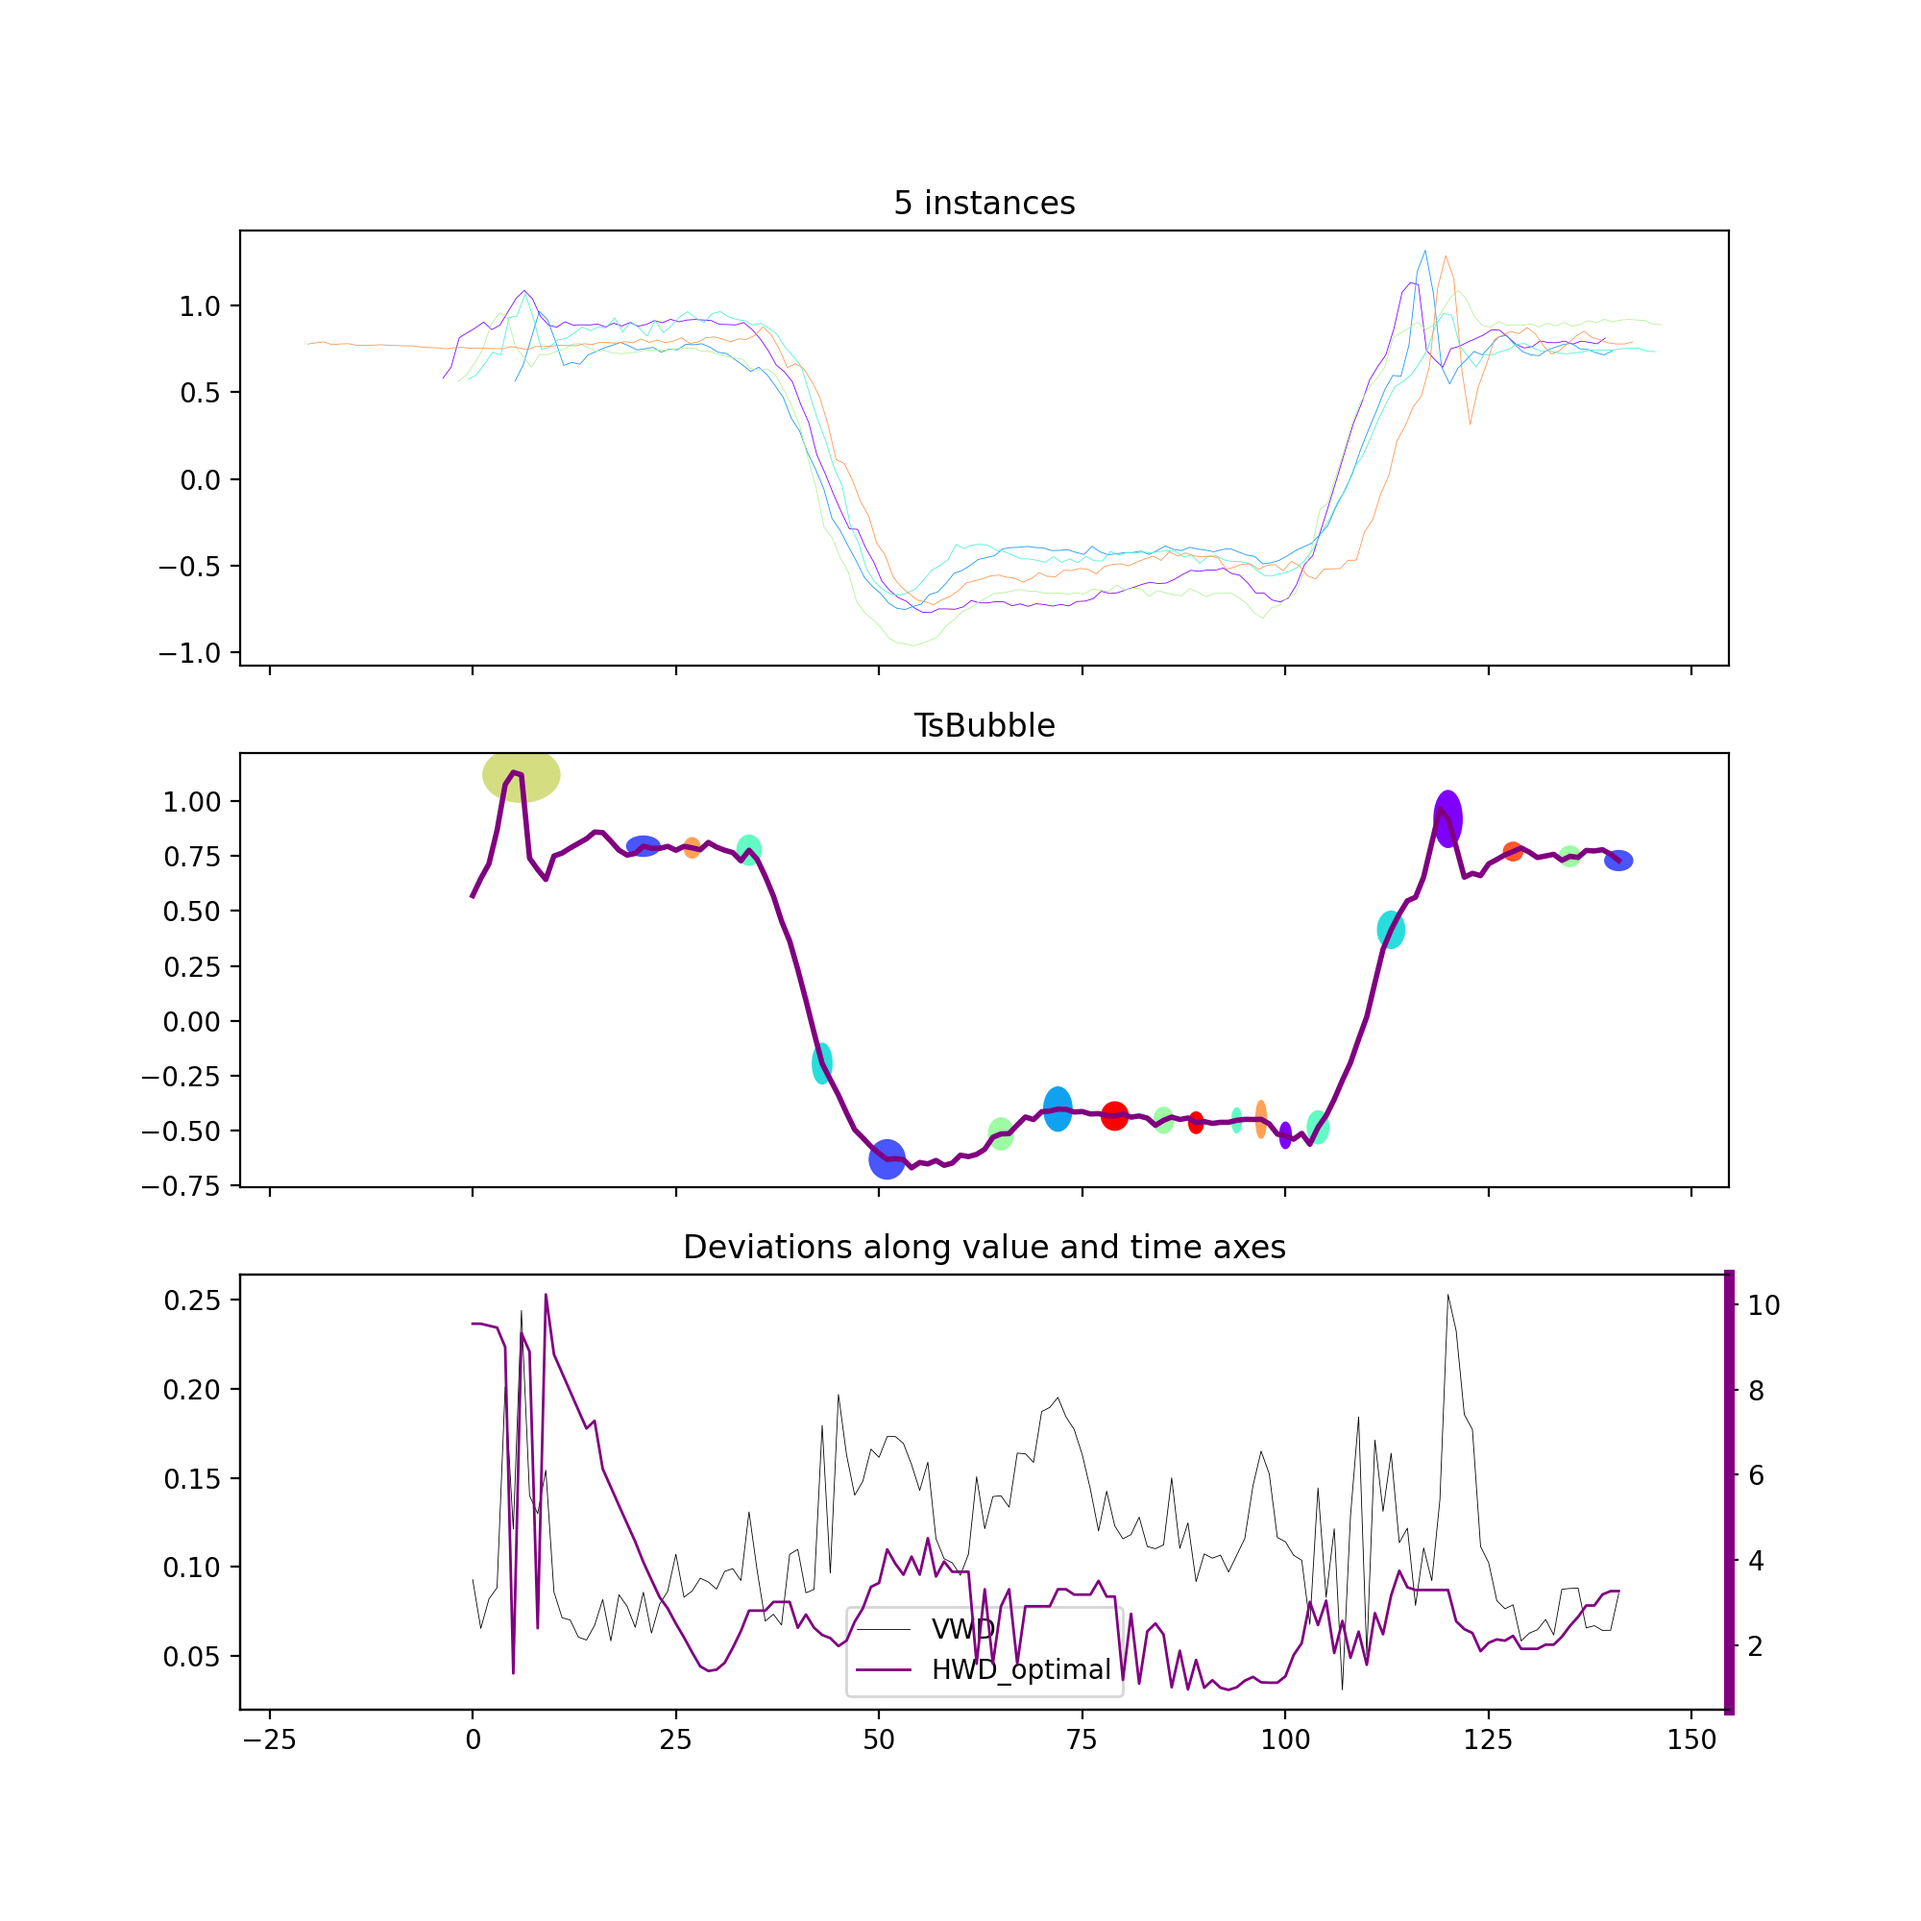
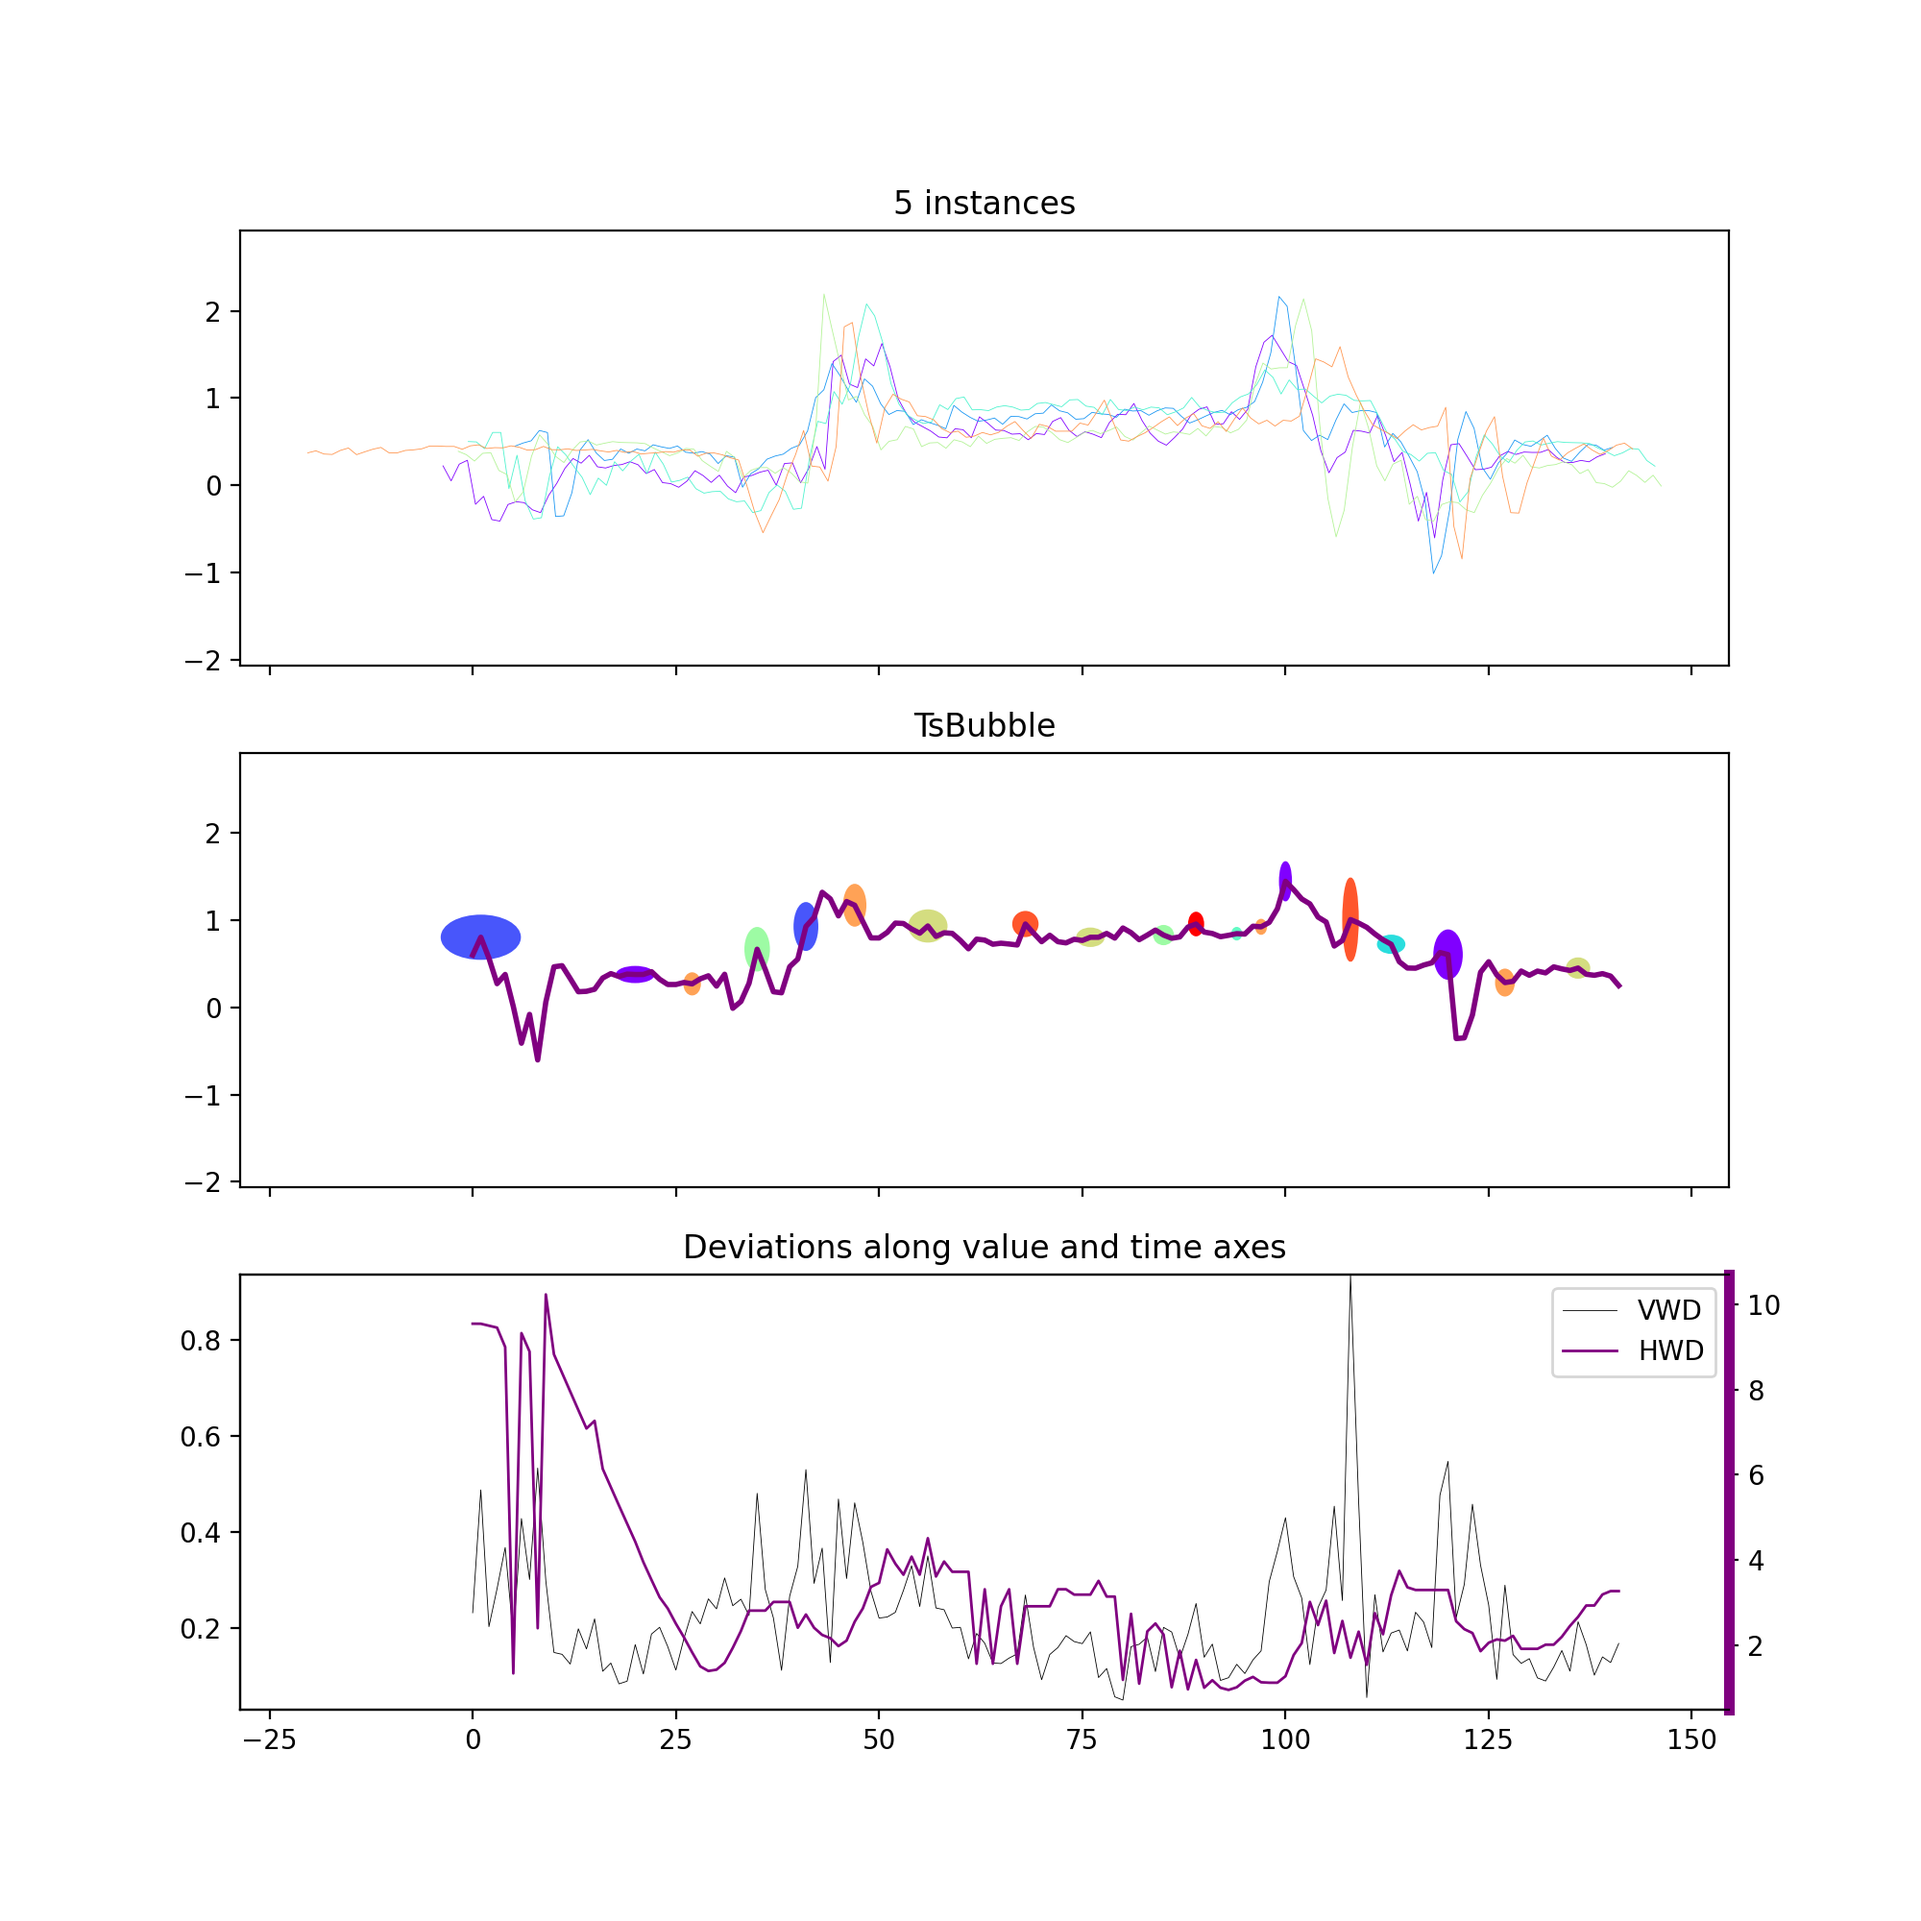
1. add results. 2. only plots the overlaying and the bubble plot.

diff --git a/tsbubble/ts_bubble.py b/tsbubble/ts_bubble.py
@@ -117,7 +117,7 @@ class TsBubble():
                 # x = np.arange(0, len(motif_set_value[new_idx]))
                 # plt.plot(x, motif_set_value[new_idx], color = 'purple', linewidth = 2)
             else:
-                plt.plot(np.arange(shifts_optimal[new_idx], len(motif_set_value[new_idx]) + shifts_optimal[new_idx]), motif_set_value[new_idx], color=next(colors) ,linewidth = 0.3)
+                plt.plot(shifts_optimal[new_idx] + np.arange(0, len(motif_set_value[new_idx])),  motif_set_value[new_idx], color=next(colors) ,linewidth = 0.3)
     def get_elipse_index_list(self,  hwd, vwd, order): #horizontal wraping deviation, vertical wraping deviation
         n = len(hwd)
         area = list(map(lambda i: hwd[i] * vwd[i],  range(n)))
@@ -169,9 +169,23 @@ class TsBubble():
             for t in textlist:
                 plt.add_artist(t)
 
+    def plot_eclipse_around_dba_of_different_dimensions(self, plt, series_mean, dtw_horizontal_deviation, dtw_vertical_deviation, order):  #plotting elipses without overlapping among them.
+        detected_dim = len(series_mean)
+        color_arr = cm.brg(np.linspace(0, 1, detected_dim))
+        for dim in np.arange(detected_dim):
+            plt.plot(series_mean[dim], color=color_arr[dim], zorder = 0)
+        for dim in np.arange(detected_dim):
+            elipse_index_list = self.get_elipse_index_list(hwd=dtw_horizontal_deviation, vwd=dtw_vertical_deviation[dim], order=order)
+            ells = [Ellipse(xy=(i, series_mean[dim][i]),
+                        width=dtw_horizontal_deviation[i], height=dtw_vertical_deviation[dim][i], color=color_arr[dim], alpha = 0.3, zorder=1)
+                for i in elipse_index_list
+                ]
+            for e in ells:
+                plt.add_artist(e)
+
 
     def plot_bubble_of_one_dimension(self, motif_set_value, length_of_candidate,
-                                     assoc_tab_new_paths, assoc_timeaxis_tab_new_paths, motif_set_length, shifts_optimal):
+                                     assoc_tab_new_paths, assoc_timeaxis_tab_new_paths, motif_set_length, shifts_optimal, lim_for_time_series=None, lim_for_vertical_deviation=None):
         # explain = ExplainKmeans(series=motif_set_value, span=(0, length_of_candidate - 1), max_iter=None, k=1,
         #                         dist_matrix=None, V=None, cluster_and_idx=None, align_info_provided=True)
         dtw_vertical_deviation, percent_v = self.get_vertical_deviation_and_percent(motif_set_value[0],
@@ -179,42 +193,100 @@ class TsBubble():
         dtw_h_to_optimal_d, percent_h_o = \
             self.get_dtw_horizontal_deviation_with_shifts(motif_set_value[0], assoc_timeaxis_tab_new_paths, shifts_optimal)
 
-        variance_of_optimal_shifts = np.sum(np.square(dtw_h_to_optimal_d))
+        # variance_of_optimal_shifts = np.sum(np.square(dtw_h_to_optimal_d))
 
-        dtw_h_no_shifts, percent_h_o = \
-            self.get_dtw_horizontal_deviation_with_shifts(motif_set_value[0], assoc_timeaxis_tab_new_paths,
-                                                          [np.float64(0)] * len(shifts_optimal))
-        variance_of_no_shifts = np.sum(np.square(dtw_h_no_shifts))
+        # dtw_h_no_shifts, percent_h_o = \
+        #     self.get_dtw_horizontal_deviation_with_shifts(motif_set_value[0], assoc_timeaxis_tab_new_paths,
+        #                                                   [np.float64(0)] * len(shifts_optimal))
+        # variance_of_no_shifts = np.sum(np.square(dtw_h_no_shifts))
         # print("the variance of optimal shifts: " + str(variance_of_optimal_shifts))
 
         # print("the variance without shifts: " + str(variance_of_no_shifts))
 
         # assert variance_of_optimal_shifts < variance_of_no_shifts
 
-        fig, axs = plt.subplots(3, 1, dpi=200, sharex=True, figsize=(10, 10))
+        fig, axs = plt.subplots(2, 1, dpi=200, sharex=True, figsize=(10, 10))
         ax1 = axs[0]
         ax2 = axs[1]
-        ax3 = axs[2]
+        # ax3 = axs[2]
 
-        ax1.set_title(str(motif_set_length - 1) + " instances")
-        ax2.set_title("TsBubble")
-        ax3.set_title("Deviations along value and time axes")
+        ax1.set_title(str(motif_set_length - 1) + " instances", fontsize = 12)
+        # ax1.set_title(str("20 instances"))
+        ax2.set_title("TsBubble",fontsize = 12)
+        # ax3.set_title("Deviations along value and time axes")
         self.plotAllSeries_with_optimal_shifts(ax1, motif_set_value, motif_set_length, shifts_optimal)
 
         self.plot_eclipse_and_percent_around_dba(ax2, motif_set_value[0], dtw_h_to_optimal_d, dtw_vertical_deviation,
                                                     percent_v, percent_h_o, False)
 
-        ln1 = ax3.plot(np.arange(0, length_of_candidate), dtw_vertical_deviation, color='black', label='VWD', linewidth=0.3)
-        ax3_twin = ax3.twinx()
-        ax3_twin.spines['right'].set_color('purple')
-        ax3_twin.spines['right'].set_linewidth(4)
-        ln2 = ax3_twin.plot(np.arange(0, length_of_candidate), dtw_h_to_optimal_d, color='purple', label='HWD_optimal', linewidth=1)
-        # todo to remove
+        # ln1 = ax3.plot(np.arange(0, length_of_candidate), dtw_vertical_deviation, color='black', label='VWD', linewidth=0.3)
+        # ax3_twin = ax3.twinx()
+        # ax3_twin.spines['right'].set_color('purple')
+        # ax3_twin.spines['right'].set_linewidth(4)
+        # ln2 = ax3_twin.plot(np.arange(0, length_of_candidate), dtw_h_to_optimal_d, color='purple', label='HWD', linewidth=1)
+        # # todo to remove
         # for iii in np.arange(80, 100):
         #     print(str(iii) + ":" + str(dtw_h_to_optimal_d[iii]))
-        lns = ln1 + ln2
-        labs = [l.get_label() for l in lns]
-        ax3.legend(lns, labs, loc=0)
+        # lns = ln1 + ln2
+        # labs = [l.get_label() for l in lns]
+        # ax3.legend(lns, labs, loc=0)
+
+        if lim_for_time_series is not None:
+            ax1.set_ylim(lim_for_time_series[0], lim_for_time_series[1])
+            ax2.set_ylim(lim_for_time_series[0], lim_for_time_series[1])
+        # if lim_for_vertical_deviation is not None:
+        #     ax3.set_ylim(lim_for_vertical_deviation[0], lim_for_vertical_deviation[1])
+        plt.show()
+
+    def  plot_bubble_of_multi_dimension(self, motif_set_value_in_all_dimensions, length_of_candidate,
+                                     assoc_tab_new_paths_in_all_dimensions, assoc_timeaxis_tab_new_paths, motif_set_length, shifts_optimal, lim_for_time_series=None, lim_for_vertical_deviation=None):
+        detect_dim = len(motif_set_value_in_all_dimensions)
+        vertical_deviation_list = []
+        average_list = []
+        for dim in np.arange(detect_dim):
+            average_list.append(motif_set_value_in_all_dimensions[dim][0])
+            dtw_vertical_deviation, _ = self.get_vertical_deviation_and_percent(motif_set_value_in_all_dimensions[dim][0],
+                                                                                       assoc_tab_new_paths_in_all_dimensions[dim])
+            vertical_deviation_list.append(dtw_vertical_deviation)
+        dtw_h_to_optimal_d, _ = \
+            self.get_dtw_horizontal_deviation_with_shifts(motif_set_value_in_all_dimensions[0][0], assoc_timeaxis_tab_new_paths, shifts_optimal)
+
+        fig, axs = plt.subplots(2, 1, dpi=200, sharex=True, figsize=(10, 10))
+        ax1 = axs[0]
+        ax2 = axs[1]
+        # ax3 = axs[2]
+
+        ax1.set_title(str(motif_set_length - 1) + " instances")
+        ax2.set_title("TsBubble")
+        # ax3.set_title("Deviations along value and time axes")
+
+        color_arr = cm.brg(np.linspace(0, 1, detect_dim))
+
+        for id in np.arange(1, motif_set_length):
+            for dim in np.arange(detect_dim):
+                ax1.plot(shifts_optimal[id] + np.arange(0, len(motif_set_value_in_all_dimensions[dim][id])),
+                         motif_set_value_in_all_dimensions[dim][id], color=color_arr[dim], linewidth=0.3)
+
+        self.plot_eclipse_around_dba_of_different_dimensions(ax2, average_list, dtw_h_to_optimal_d, vertical_deviation_list,False)
+
+        # lns = []
+        # for dim in np.arange(detect_dim):
+        #     current_lns = ax3.plot(np.arange(0, length_of_candidate), dtw_vertical_deviation, color= color_arr[dim], label='VWD_dim_' + str(dim), linewidth=0.5)
+        #     lns += current_lns
+        # ax3_twin = ax3.twinx()
+        # ax3_twin.spines['right'].set_color('black')
+        # ax3_twin.spines['right'].set_linewidth(4)
+        # ln2 = ax3_twin.plot(np.arange(0, length_of_candidate), dtw_h_to_optimal_d, color='black', label='HWD', linewidth=1)
+
+        # lns += ln2
+        # labs = [l.get_label() for l in lns]
+        # ax3.legend(lns, labs, loc=0)
+
+        if lim_for_time_series is not None:
+            ax1.set_ylim(lim_for_time_series[0], lim_for_time_series[1])
+            ax2.set_ylim(lim_for_time_series[0], lim_for_time_series[1])
+        # if lim_for_vertical_deviation is not None:
+        #     ax3.set_ylim(lim_for_vertical_deviation[0], lim_for_vertical_deviation[1])
         plt.show()
 
     def find_all_series_with_indices(self, series, indices):

diff --git a/usecase/local_motif_discovery_multi_variate.py b/usecase/local_motif_discovery_multi_variate.py
@@ -97,12 +97,40 @@ if __name__ == '__main__':
 
     tsbubble_motif = TsBubble()
     shifts_optimal = tsbubble_motif.find_the_optimal_shifts(assoc_timeaxis_tabs)
+
+    #pre process
+
+    lim_for_time_series = [sys.float_info.max, sys.float_info.min]
+    lim_for_vertical_deviation = [sys.float_info.max, sys.float_info.min]
+
+    # dtw_h_to_optimal_d, percent_h_o = \
+    #     tsbubble_motif.get_dtw_horizontal_deviation_with_shifts(motif_set_values_in_all_dimension[0][0],
+    #                                                             assoc_timeaxis_tabs, shifts_optimal)
+
     for dim in np.arange(series.shape[1]):
-        tsbubble_motif.plot_bubble_of_one_dimension(motif_set_values_in_all_dimension[dim], representative_size,
-                                                    assoc_tabs[dim], assoc_timeaxis_tabs, n_of_motifs,
-                                                    shifts_optimal)
 
+        for ts in motif_set_values_in_all_dimension[dim]:
+            lim_for_time_series[1] = max(lim_for_time_series[1], max(ts))
+            lim_for_time_series[0] = min(lim_for_time_series[0], min(ts))
 
+        dtw_vertical_deviation, _ = tsbubble_motif.get_vertical_deviation_and_percent(motif_set_values_in_all_dimension[dim][0],
+                                                                                    assoc_tabs[dim])
+        for i, timepoint in enumerate(motif_set_values_in_all_dimension[dim][0]):
+            lim_for_time_series[1] = max(lim_for_time_series[1], timepoint+dtw_vertical_deviation[i])
+            lim_for_time_series[0] = min(lim_for_time_series[0], timepoint-dtw_vertical_deviation[i])
+
+        lim_for_vertical_deviation[1] = max(lim_for_vertical_deviation[1], max(dtw_vertical_deviation))
+        lim_for_vertical_deviation[0] = min(lim_for_vertical_deviation[0], min(dtw_vertical_deviation))
+
+    #
+    # for dim in np.arange(series.shape[1]):
+    #     tsbubble_motif.plot_bubble_of_one_dimension(motif_set_values_in_all_dimension[dim], representative_size,
+    #                                                 assoc_tabs[dim], assoc_timeaxis_tabs, n_of_motifs,
+    #                                                 shifts_optimal, lim_for_time_series, lim_for_vertical_deviation)
+
+    tsbubble_motif.plot_bubble_of_multi_dimension(motif_set_values_in_all_dimension, representative_size,
+                                                  assoc_tabs, assoc_timeaxis_tabs, n_of_motifs,
+                                                  shifts_optimal, lim_for_time_series, lim_for_vertical_deviation)
 
 
 

diff --git a/usecase/motif_discovery.py b/usecase/motif_discovery.py
@@ -12,6 +12,14 @@ class MotifDiscovery:
         ...
     def mapping_preparing(self, series, induced_paths, n_of_timeseries, representative_size, b):
         dim = series.shape[1]
+
+        #this modification is purely for motif discovery, where the time point of a normal motif could
+        #be mapped to a time point outside the candidate.
+        e = induced_paths[0][-1][0]
+        # preprocess the edge cases.
+        for path in induced_paths:
+            path[-1][1] = min(e, path[-1][1])
+        # end of the motification
         assoc_tabs = [[[[] for _ in range(n_of_timeseries - 1)] for _ in range(representative_size)] for _ in range(dim)]
 
         # It is the same for different dimensions
